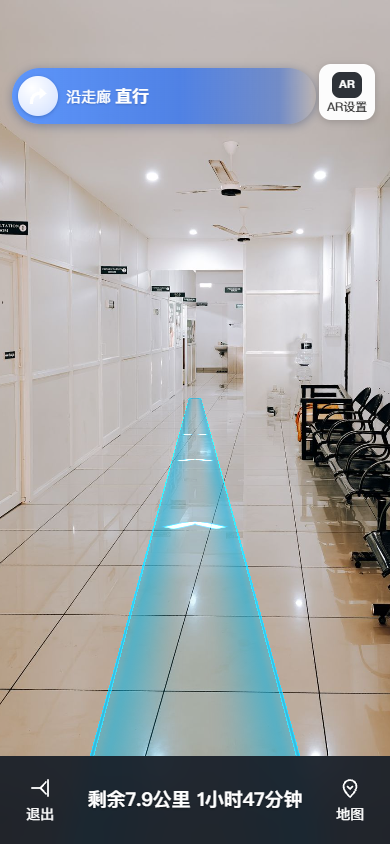
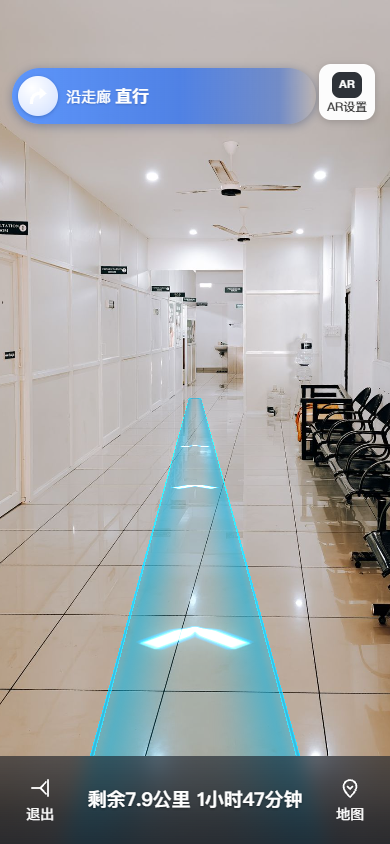
fix: band reaches viewport bottom in every scene - re-anchor route when camera pitch arrives late, relead route from edge point when the near end sits behind the camera (hospital straight), stricter bottom-edge checks incl. inside-bar and last viewport row

diff --git a/src/core.ts b/src/core.ts
@@ -144,9 +144,11 @@ const STYLE = css`
     bottom: 0; left: 0; right: 0;
     height: 88px;
     padding-bottom: env(safe-area-inset-bottom, 0px);
-    background: rgba(22, 28, 38, 0.92);
-    backdrop-filter: blur(12px);
-    -webkit-backdrop-filter: blur(12px);
+    /* 底栏半透明：光带要能从底栏下面透出来，一直亮到屏幕最底边，
+       否则光带看起来像在底栏上方被截断。 */
+    background: linear-gradient(180deg, rgba(22, 28, 38, 0.62) 0%, rgba(22, 28, 38, 0.86) 100%);
+    backdrop-filter: blur(10px) saturate(1.05);
+    -webkit-backdrop-filter: blur(10px) saturate(1.05);
     display: flex; align-items: center; justify-content: space-between;
     padding: 0 10px;
   }
@@ -220,6 +222,9 @@ export class NaviArrowCore {
   private turnSignMat?: THREE.ShaderMaterial
   private turnSignOn = false
   private routeGeo?: RouteGeometry
+  /** 原始（未兜底）路线点，相机变化时重新计算近端 */
+  private rawRoute?: THREE.Vector3[]
+  private routeTension = 0.4
   private groundGrid?: THREE.LineSegments
   /** 地平线校准状态 */
   horizon: { horizonY: number; vanishX: number; pitchDeg: number; enabled: boolean }
@@ -388,13 +393,15 @@ export class NaviArrowCore {
   /** 设置/替换路线（局部坐标：米，y 向上） */
   setRoute(route: NonNullable<NaviArrowOptions['route']>, opts?: { tension?: number }) {
     const raw = normalizeRoute(route)
+    this.rawRoute = raw
+    this.routeTension = opts?.tension ?? 0.4
     // 近端兜底：按当前相机把路线延伸到画面底边的地面落点，
     // 避免任何视口尺寸下出现「带子没顶到底」的空隙。
     const edgeDist = groundEdgeDistance(this.camera)
     this.routeGeo = buildRouteGeometry(
       extendRouteToCamera(raw, this.camera.position, Number.isFinite(edgeDist) ? edgeDist : 4.5),
       3,
-      opts?.tension ?? 0.4,
+      this.routeTension,
     )
     this.rebuildCurtain()
     if (this.turnSignOn) this.placeTurnSign()
@@ -744,6 +751,31 @@ export class NaviArrowCore {
   setCameraPose(pos: { x: number; y: number; z: number } | THREE.Vector3, quat: { x: number; y: number; z: number; w: number } | THREE.Quaternion) {
     this.camera.position.set(pos.x, pos.y, pos.z)
     this.camera.quaternion.set(quat.x, quat.y, quat.z, quat.w)
+    this.ensureNearEndReachesBottom()
+  }
+
+  /**
+   * 近端兜底：相机位姿（含 pitch）变化后，画面底边的地面落点会变。
+   * 若光带近端已经够不到底边，就把路线首点再往镜头方向补一段。
+   * 只在确实需要时重建几何（阈值 0.15m），避免每帧重建。
+   */
+  private ensureNearEndReachesBottom() {
+    if (!this.routeGeo || !this.rawRoute) return
+    this.camera.updateMatrixWorld()
+    const edgeDist = groundEdgeDistance(this.camera)
+    if (!Number.isFinite(edgeDist)) return
+    const wanted = extendRouteToCamera(this.rawRoute, this.camera.position, edgeDist)
+    const rebuilt = buildRouteGeometry(wanted, 3, this.routeTension)
+    // 近端顶点距相机的水平距离
+    const p = rebuilt.points[0]
+    const nearDist = Math.hypot(p.x - this.camera.position.x, p.z - this.camera.position.z)
+    const cur = this.routeGeo.points[0]
+    const curDist = Math.hypot(cur.x - this.camera.position.x, cur.z - this.camera.position.z)
+    if (curDist <= edgeDist + 0.05) return // 已够近，无需改动
+    if (Math.abs(nearDist - curDist) < 0.15 && nearDist <= edgeDist) return
+    this.routeGeo = rebuilt
+    this.rebuildCurtain()
+    if (this.turnSignOn) this.placeTurnSign()
   }
 
   /** 设置横幅内容（触发上滑淡入过渡动画） */

diff --git a/tests/bottom-gap.test.ts b/tests/bottom-gap.test.ts
@@ -56,6 +56,24 @@ describe('近端兜底：光带贯穿画面底边', () => {
     expect(out[0].z).toBeCloseTo(-1.2, 5)
   })
 
+  /**
+   * 走廊/医院场景：地平线在画面上方（horizonY≈0.445）→ 相机低头 → 底边落点很远。
+   * 若路线首点留在相机身后，被投影到画面顶部之外，画面里第一段就落在半空，
+   * 底边会露出一条空地。必须把首点挪到镜头前方靠近落点的位置。
+   */
+  it('相机低头、首点在身后时，首点被挪到镜头前方的落点附近', () => {
+    const pts = normalizeRoute([[0, 3.5], [0, -2], [0, -12], [0, -24]])
+    const edgeDist = 6.5 // 低头时的典型落点距离
+    const out = extendRouteToCamera(pts, CAMERA_POS, edgeDist)
+    const first = out[0]
+    expect(first.z).toBeLessThan(CAMERA_POS.z) // 在镜头前方（不再跑到身后）
+    const d = Math.hypot(first.x - CAMERA_POS.x, first.z - CAMERA_POS.z)
+    expect(d).toBeLessThan(edgeDist)            // 在底边落点之内
+    expect(d).toBeGreaterThan(edgeDist * 0.5)   // 也不能贴脸
+    // 原有的远端控制点都还在
+    expect(out).toContainEqual(pts[1])
+  })
+
   it('三个视口下光带近端都盖到底边', () => {
     for (const [w, h] of [[390, 844], [430, 932], [1280, 800]] as Array<[number, number]>) {
       const camera = makeCamera(w, h)
@@ -68,6 +86,43 @@ describe('近端兜底：光带贯穿画面底边', () => {
         const d = Math.hypot(pos.getX(i) - CAMERA_POS.x, pos.getZ(i) - CAMERA_POS.z)
         expect(d, `viewport ${w}x${h} vertex ${i}`).toBeLessThanOrEqual(edgeDist + 0.05)
       }
+    }
+  })
+
+  /**
+   * 回归：医院场景的调用顺序是「先 setRoute、后校准相机 pitch」。
+   * 这种情况下首次兜底用的是默认朝向，落点算大了，近端就够不到底边。
+   * 特征：用错误的 pitch 兜底后，近端距离 > 正确落点距离。
+   */
+  it('相机 pitch 晚于 setRoute 设置时，必须能重新兜底到底边', () => {
+    for (const [w, h] of [[390, 844], [430, 932]] as Array<[number, number]>) {
+      const raw = normalizeRoute([[0, -2], [0, -12], [0, -24], [0, -36], [0, -48]])
+
+      // 1) 先按「默认朝向」（水平）兜底——真实 pitch 还没设进来
+      const flat = new THREE.PerspectiveCamera(60, w / h, 0.05, 300)
+      flat.position.copy(CAMERA_POS)
+      flat.updateMatrixWorld()
+      const flatEdge = groundEdgeDistance(flat)
+      // 视线水平时算出的落点比校准后更近（3.2m vs 4.4m），
+      // 于是按它兜底的近端够不到真正的底边——这正是医院直行出现空隙的原因。
+      const calibrated = makeCamera(w, h)
+      expect(flatEdge).toBeLessThan(groundEdgeDistance(calibrated))
+
+      const first = extendRouteToCamera(raw, CAMERA_POS, 4.5)
+      const g1 = buildRouteGeometry(first, 3, 0)
+      const d1 = Math.hypot(g1.points[0].x - CAMERA_POS.x, g1.points[0].z - CAMERA_POS.z)
+
+      // 2) 相机校准好之后重新兜底
+      const camera = makeCamera(w, h)
+      const edgeDist = groundEdgeDistance(camera)
+      const second = extendRouteToCamera(raw, CAMERA_POS, edgeDist)
+      const g2 = buildRouteGeometry(second, 3, 0)
+      const pos = buildBandGeometry(g2, 0.85).getAttribute('position') as THREE.BufferAttribute
+      for (let i = 0; i < 2; i++) {
+        const d = Math.hypot(pos.getX(i) - CAMERA_POS.x, pos.getZ(i) - CAMERA_POS.z)
+        expect(d, `viewport ${w}x${h} vertex ${i} after re-anchor`).toBeLessThanOrEqual(edgeDist + 0.05)
+      }
+      void d1
     }
   })
 })

diff --git a/src/route.ts b/src/route.ts
@@ -42,15 +42,20 @@ export function groundEdgeDistance(camera: THREE.PerspectiveCamera): number {
 }
 
 /**
- * 近端兜底：把路线首点沿首段方向朝镜头延伸到画面底边的地面落点，
- * 保证光带贯穿画面底边。首点若已经比落点更近，原样返回。
+ * 近端兜底：把路线首点沿首段方向朝镜头延伸到画面底边的地面落点。
  *
- * 注意：不能延长到相机身后（近裁剪面之外），那段会从画面顶部穿出。
+ * 两种情形都要处理：
+ *  1) 首点比落点更远（视线抬头时）：向前延长到落点。
+ *  2) 首点在相机身后（视线低头时，例如走廊场景）：身后那段会被投影到画面顶部之外，
+ *     画面里能看到的第一个点其实落在半空中，于是底边露出空隙。
+ *     这时把首点直接移到「镜头 → 落点」之间，让光带从底边开始。
+ *
+ * 首点若已经在 (0, edgeDist] 区间就不动。
  */
 export function extendRouteToCamera(
   points: THREE.Vector3[],
   cameraPos: THREE.Vector3,
-  /** 底边落点距相机的水平距离（缺省用 4.5m，390x844 抬 8.9° 时的典型值） */
+  /** 底边落点距相机的水平距离（缺省用 4.5m） */
   edgeDist = 4.5,
 ): THREE.Vector3[] {
   if (points.length < 2) return points
@@ -62,12 +67,23 @@ export function extendRouteToCamera(
   dir.normalize()
 
   const flat = new THREE.Vector3(cameraPos.x, 0, cameraPos.z)
-  // 「沿路线方向」的坐标：首点、相机各自到起点的投影
-  const firstAhead = new THREE.Vector3().subVectors(first, flat).dot(dir)
-  if (firstAhead <= 0) return points // 首点已在镜头后方，由调用方处理
-  if (firstAhead <= edgeDist) return points // 已经比落点更近
-  const start = first.clone().addScaledVector(dir, -(firstAhead - edgeDist) - 0.3)
-  return [start, ...points]
+  // 首点相对镜头、沿路线方向的距离（负值 = 首点在相机身后）
+  const firstAhead = new THREE.Vector3(first.x - flat.x, 0, first.z - flat.z).dot(dir)
+  const curDist = Math.hypot(first.x - flat.x, first.z - flat.z)
+
+  // 情形 1：首点在镜头前方、但比落点更远 → 向前延长到落点
+  if (firstAhead > 0 && firstAhead > edgeDist) {
+    const start = first.clone().addScaledVector(dir, -(firstAhead - edgeDist) - 0.3)
+    return [start, ...points]
+  }
+  // 情形 2：首点在相机身后，或离相机比落点更远 → 从落点附近重新铺起
+  if (firstAhead <= 0 || curDist > edgeDist) {
+    // 从镜头脚下沿「行进方向」往前铺到落点内：起点在镜头前方，过渡点接回原路线
+    const start = flat.clone().addScaledVector(dir, edgeDist * 0.9)
+    const mid = flat.clone().addScaledVector(dir, Math.min(Math.max(firstAhead, 0) || curDist, edgeDist * 1.4))
+    return [start, mid, ...points]
+  }
+  return points
 }
 
 /** 平滑 + 按弧长等距采样（全部贴地 y=0），并预计算每点侧向量 */
